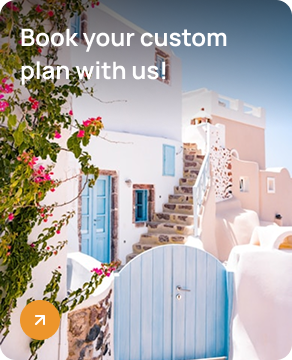
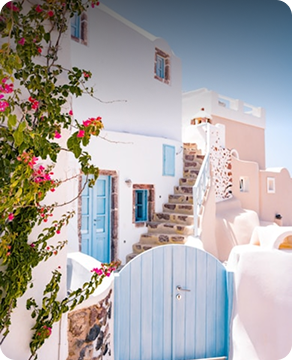
.

Changed region(s): [[0.0616, 0.0611, 0.8014, 0.2444], [0.0616, 0.825, 0.2158, 0.9472]]

diff --git a/index.html b/index.html
@@ -76,7 +76,7 @@
       </header>
     </div>
     <main>
-     <section class="adventure">
+      <section class="adventure">
         <div class="container">
           <div class="adventure-box">
             <h2 class="adventure-box-title">
@@ -108,26 +108,19 @@
                 a lifetime.
               </p>
             </li>
-            <li class="adventure-list-item">
-              <img
-                class="adventure-list-item-img"
-                src="./img/Card 2.png"
-                alt=""
-              />
-              <p class="adventure-list-item-text"></p>
+            <li class="adventure-list-item-back-img">
+              <p class="adventure-list-item-text">Book your custom plan with us!</p>
+              <a class="adventure-list-item-link-arrow" href="#"><img src="./img/arrow-1.png" alt=""></a> 
             </li>
             <a class="adventure-list-item-link" href=""></a>
-            <li class="adventure-list-item">
-              <img
-                class="adventure-list-item-img"
-                src="./img/Card 3.png"
-                alt=""
-              />
+            <li class="adventure-list-item-back-img-play">
+
+          <a class="adventure-list-item-link-play" target="_blank" href="https://youtu.be/wm6lMWj_mgA?si=7gyYOdNM1xbxN1SI"> <img src="./img/play.png" alt=""></a>
             </li>
           </ul>
         </div>
       </section>
-      
+
       <section class="exploring">
         <div class="container">
           <div class="exploring-box">
@@ -159,7 +152,7 @@
           </div>
         </div>
       </section>
-      
+
       <section class="events">
         <div class="events-box">
           <div class="events-box-left">
@@ -167,19 +160,6 @@
               Unforgettable Moments with Unique Events.
             </h2>
           </div>
-          <div class="events-box-right">
-            <a class="events-box-right-link" href="#">
-              <img
-                class="events-box-right-link-slide"
-                src="./img/arrow-left.png"
-                alt=""
-            /></a>
-            <a class="events-box-right-link" href="#">
-              <img
-                class="events-box-right-link-slide"
-                src="./img/arrow-right.png"
-                alt=""
-            /></a>
           </div>
         </div>
         <ul class="events-list">
@@ -225,16 +205,31 @@
       </section>
       <section class="plan">
         <div class="container">
-<div class="plan-box">
-    <div class="plan-box-left"> <img class="plan-box-left-img" src="./img/plan-img.png" alt=""></div>
-    <div class="plan-box-right"> <h2 class="plan-box-right-title">Simplify travel planning, and ensure that every step of your journey</h2>
-    <p class="plan-box-right-text">we offer a comprehensive range of travel solutions designed to make your adventures seamless and unforgettable</p>
-    <button class="plan-box-right-btn"> Start Exploring <img class="plan-box-right-btn-img" src="./img/arrow-black.png" alt=""></button>
-    </div>
-</div>
-
+          <div class="plan-box">
+            <div class="plan-box-left">
+              <img class="plan-box-left-img" src="./img/plan-img.png" alt="" />
+            </div>
+            <div class="plan-box-right">
+              <h2 class="plan-box-right-title">
+                Simplify travel planning, and ensure that every step of your
+                journey
+              </h2>
+              <p class="plan-box-right-text">
+                we offer a comprehensive range of travel solutions designed to
+                make your adventures seamless and unforgettable
+              </p>
+              <button class="plan-box-right-btn">
+                Start Exploring
+                <img
+                  class="plan-box-right-btn-img"
+                  src="./img/arrow-black.png"
+                  alt=""
+                />
+              </button>
+            </div>
+          </div>
         </div>
-      </section> 
+      </section>
     </main>
   </body>
 </html>

diff --git a/components/styles.css b/components/styles.css
@@ -269,10 +269,73 @@ input {
     justify-content: center;
   }
 }
+@media (max-width: 1290px) {
+  .adventure-list > li {
+    width: calc(50% - 24px);
+  }
+}
+@media (max-width: 750px) {
+  .adventure-list {
+    flex-direction: column;
+    align-items: center;
+  }
+}
 
 .adventure-list-item-img {
   display: block;
   width: 100%;
+}
+
+.adventure-list-item-back-img {
+  background-image: url(../img/Card\ 2.png);
+  background-repeat: no-repeat;
+  background-size: cover;
+  width: 292px;
+  height: 360px;
+  display: flex;
+  flex-direction: column;
+  justify-content: space-between;
+  padding: 20px;
+}
+
+.adventure-list-item-text {
+  font-family: var(--font-family);
+  font-weight: 700;
+  font-size: 24px;
+  color: var(--white);
+  max-width: 252px;
+}
+
+.adventure-list-item-link-arrow {
+  width: 40px;
+  height: 40px;
+  background: #ED952B;
+  border-radius: 50%;
+  display: flex;
+  align-items: center;
+  justify-content: center;
+}
+
+.adventure-list-item-back-img-play {
+  background-image: url(../img/Card\ 3.png);
+  width: 187px;
+  height: 220px;
+  display: flex;
+  align-items: center;
+  justify-content: center;
+  background-repeat: no-repeat;
+  background-size: cover;
+  background-position: center;
+}
+
+.adventure-list-item-link-play {
+  width: 40px;
+  height: 40px;
+  background: #ED952B;
+  border-radius: 50%;
+  display: flex;
+  align-items: center;
+  justify-content: center;
 }
 
 .adventure-list-item-card {
@@ -281,6 +344,15 @@ input {
   padding: 20px;
   width: 292px;
   height: 360px;
+}
+@media (max-width: 1290px) {
+  .adventure-list-item-card {
+    display: flex;
+    justify-content: center;
+    align-items: center;
+    flex-direction: column;
+    text-align: center;
+  }
 }
 
 .adventure-list-item-card-title {
@@ -424,11 +496,11 @@ input {
   background: var(--white);
   border-radius: 16px;
   padding: 20px;
-  width: 700px;
+  width: calc(50% - 20px);
   height: 600px;
 }
 
-.plan-box-left-img {
+.events-list-item-img {
   display: block;
   width: 100%;
 }

diff --git a/components/_adventure.scss b/components/_adventure.scss
@@ -38,10 +38,66 @@ max-width: 496px;
         flex-wrap: wrap;
         justify-content: center;
     }
+    & > li {
+         @media (max-width: 1290px) {
+            width: calc(50% - 24px);
+         }
+    }
+    @media (max-width: 750px) {
+        flex-direction: column;
+        align-items: center;
+    }
 }
 .adventure-list-item-img{
     display: block;
     width: 100%;
+}
+.adventure-list-item-back-img{
+    background-image: url(../img/Card\ 2.png);
+    background-repeat: no-repeat;
+    background-size: cover;
+    width: 292px;
+    height: 360px;
+    display: flex;
+    flex-direction: column;
+    justify-content: space-between;
+    padding: 20px;
+}
+.adventure-list-item-text{
+    font-family: var(--font-family);
+font-weight: 700;
+font-size: 24px;
+color: var(--white);
+max-width: 252px;
+}
+.adventure-list-item-link-arrow{
+    width: 40px;
+    height: 40px;
+    background: #ED952B;
+    border-radius: 50%;
+    display: flex;
+    align-items: center;
+    justify-content: center;
+}
+.adventure-list-item-back-img-play{
+    background-image: url(../img/Card\ 3.png);
+    width: 187px;
+    height: 220px;
+    display: flex;
+    align-items: center;
+    justify-content: center;
+      background-repeat: no-repeat;
+    background-size: cover;
+    background-position: center;
+}
+.adventure-list-item-link-play{
+    width: 40px;
+    height: 40px;
+            background: #ED952B;
+    border-radius: 50%;
+       display: flex;
+    align-items: center;
+    justify-content: center;
 }
 .adventure-list-item-card{
 background: var(--sky);
@@ -49,6 +105,13 @@ border-radius: 16px;
 padding: 20px;
 width: 292px;
 height: 360px;
+@media (max-width: 1290px){
+    display: flex;
+    justify-content: center;
+    align-items: center;
+    flex-direction: column;
+    text-align: center;
+}
 }
 .adventure-list-item-card-title{
     font-family: var(--font-family);

diff --git a/components/_events.scss b/components/_events.scss
@@ -8,7 +8,6 @@
     justify-content: space-between;
     align-items: center;
      padding: 80px 40px;
-
 }
 .events-box-left-title{
     font-family: var(--font-family);
@@ -45,10 +44,10 @@ display: block;
     background: var(--white);
     border-radius: 16px;
 padding: 20px;
-width: 700px;
+width: calc(50% - 20px);
 height: 600px;
 }
-.plan-box-left-img{
+.events-list-item-img{
     display: block;
     width: 100%;
 }
